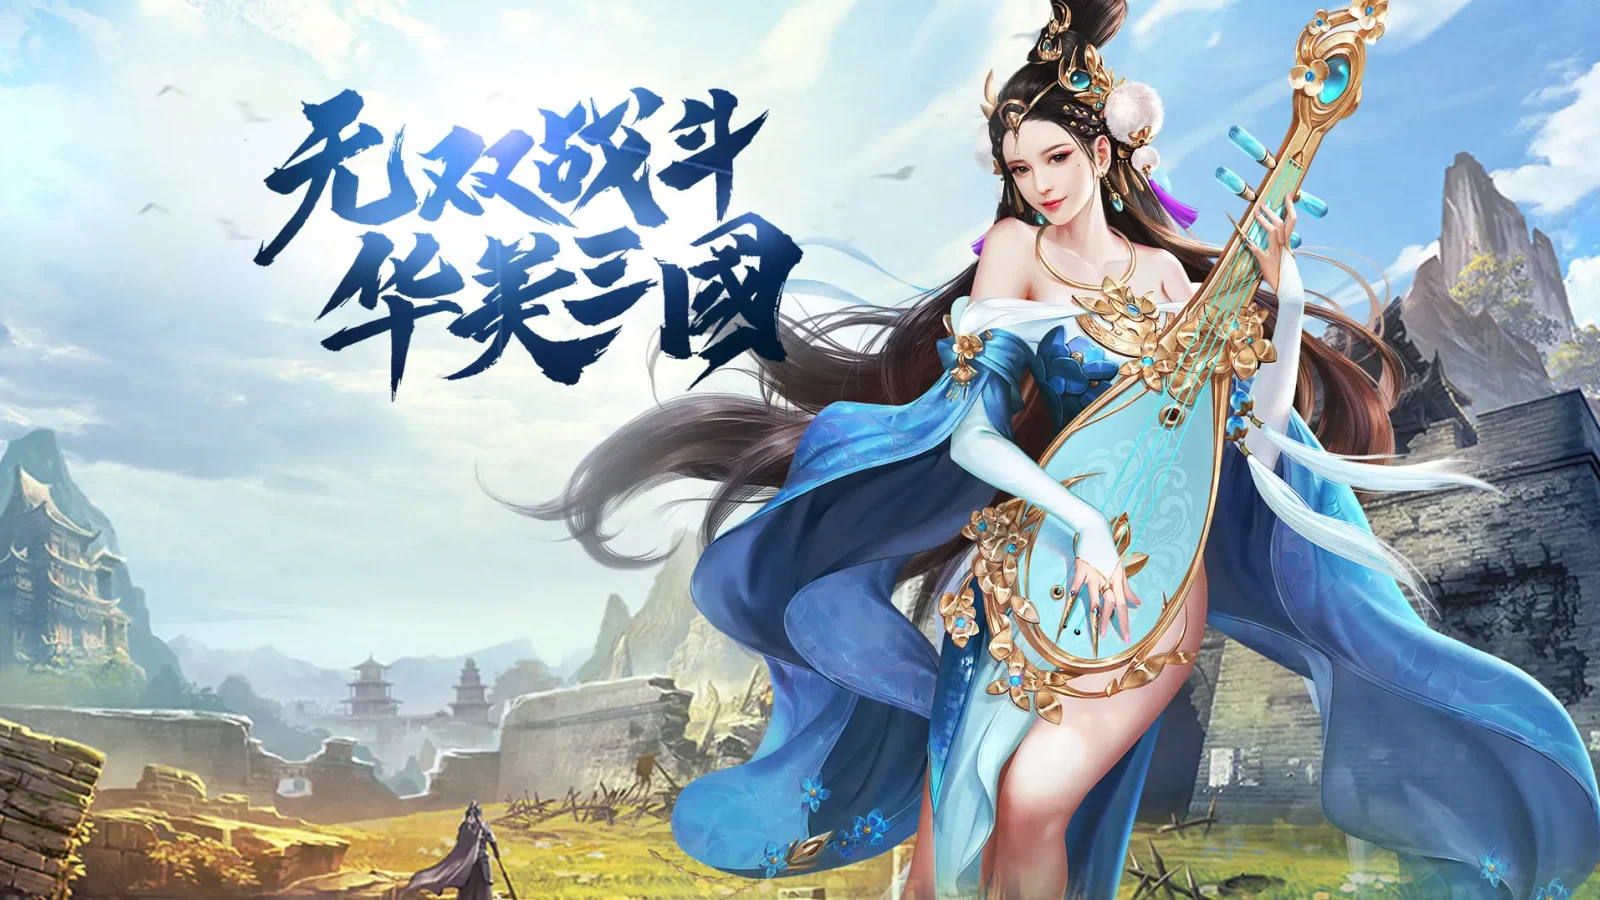
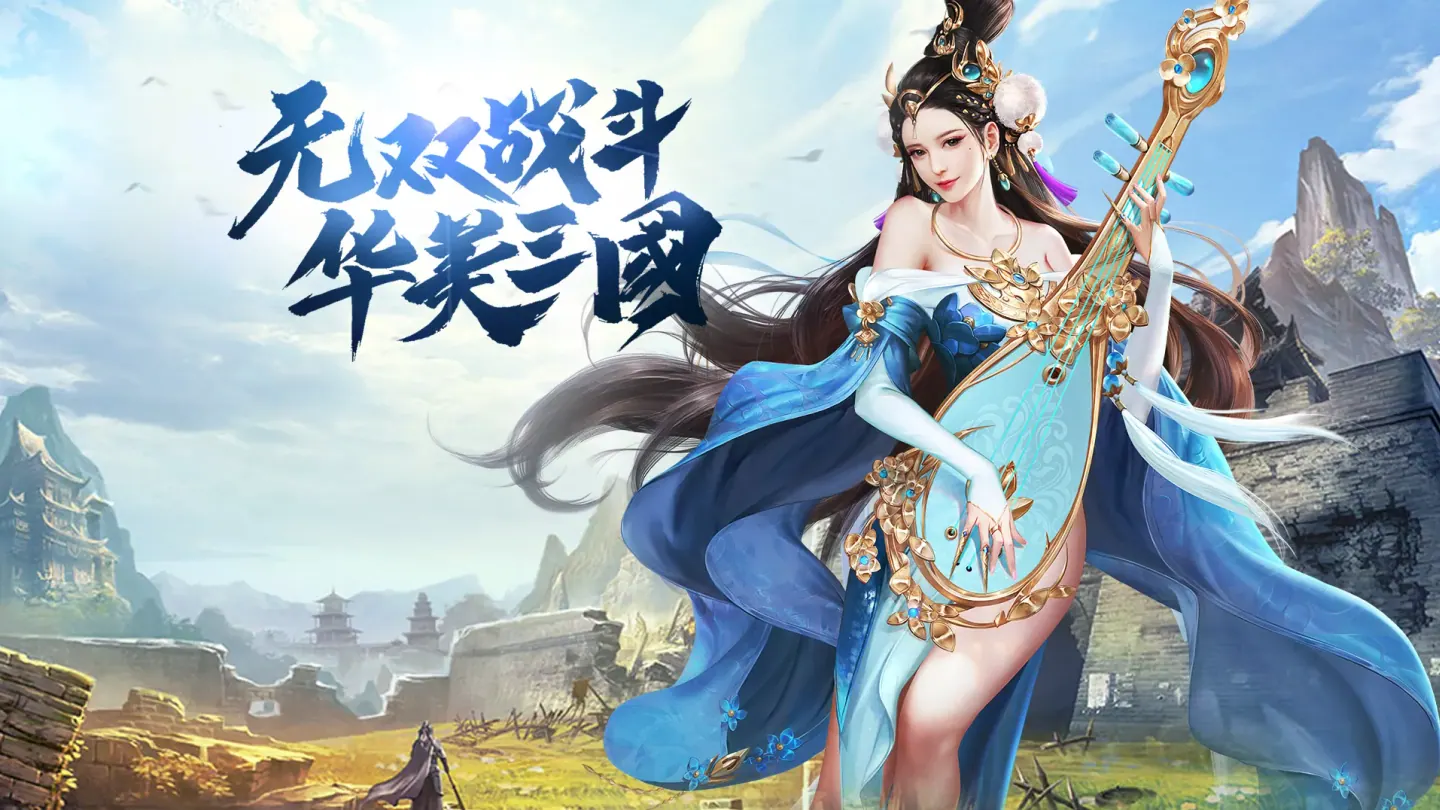
优化全站反应速度：站内链接预取、首屏图 preload/fetchpriority、消除持续重绘、交互节流与预计算

diff --git a/src/styles/global.css b/src/styles/global.css
@@ -81,7 +81,8 @@ main { padding-top: 64px; min-height: 70vh; }
 .site-header {
   position: fixed; top: 0; left: 0; width: 100%; z-index: 1000;
   background: rgba(10, 10, 15, 0.72);
-  backdrop-filter: blur(20px); -webkit-backdrop-filter: blur(20px);
+  /* 固定导航的 backdrop-filter 在滚动时每帧都要重算；12px 观感接近但开销更低 */
+  backdrop-filter: blur(12px); -webkit-backdrop-filter: blur(12px);
   border-bottom: 1px solid var(--line);
 }
 .site-header .container {
@@ -91,13 +92,13 @@ main { padding-top: 64px; min-height: 70vh; }
 .brand { font-size: 20px; font-weight: 800; letter-spacing: 1px; white-space: nowrap; }
 .brand span { background: var(--grad); -webkit-background-clip: text; background-clip: text; -webkit-text-fill-color: transparent; }
 .nav { display: flex; gap: 28px; list-style: none; margin-left: auto; }
-.nav a { color: var(--muted); font-size: 14px; transition: color .3s; }
+.nav a { color: var(--muted); font-size: 14px; transition: color .18s; }
 .nav a:hover { color: #fff; }
 .nav-search {
   display: flex; align-items: center; gap: 8px;
   background: rgba(255, 255, 255, 0.08);
   border: 1px solid var(--line-strong); border-radius: var(--r-pill);
-  padding: 7px 14px; transition: border-color .3s, box-shadow .3s;
+  padding: 7px 14px; transition: border-color .18s, box-shadow .18s;
 }
 .nav-search:focus-within {
   border-color: rgba(254, 202, 87, 0.6);
@@ -120,10 +121,9 @@ main { padding-top: 64px; min-height: 70vh; }
   position: absolute; inset: -40px; z-index: 0;
   background-size: cover; background-position: center 35%;
   filter: blur(14px) brightness(0.42) saturate(1.2);
-  transform: scale(1.2);
-  animation: heroZoom 18s ease-in-out infinite alternate;
+  /* 原先 18s 无限缩放会让整屏模糊大图持续参与合成，滚动时容易掉帧；改为静态 */
+  transform: scale(1.22);
 }
-@keyframes heroZoom { from { transform: scale(1.18); } to { transform: scale(1.28); } }
 .hero-wall::after {
   content: ''; position: absolute; inset: 0; z-index: 1; pointer-events: none;
   background:
@@ -230,7 +230,10 @@ main { padding-top: 64px; min-height: 70vh; }
 .filter-btn {
   padding: 9px 20px; background: transparent; border: 1px solid var(--line-strong);
   border-radius: var(--r-pill); color: var(--muted); font-size: 14px;
-  cursor: pointer; transition: all .3s;
+  cursor: pointer;
+  /* transition: all 会把无关属性也纳入动画，改为只过渡实际变化的属性 */
+  transition: background-color .18s ease, color .18s ease, border-color .18s ease,
+              transform .18s ease, box-shadow .18s ease;
 }
 .filter-btn:hover, .filter-btn.active {
   background: #fff; color: var(--bg); border-color: #fff;
@@ -261,8 +264,8 @@ main { padding-top: 64px; min-height: 70vh; }
   position: relative; aspect-ratio: 3 / 4; border-radius: var(--r-card);
   overflow: hidden; cursor: pointer; border: 1px solid var(--line);
   display: block; background: var(--surface);
-  transition: transform .35s ease, box-shadow .35s ease;
-  animation: fadeIn .45s ease backwards;
+  transition: transform .2s ease, box-shadow .2s ease;
+  animation: fadeIn .3s ease backwards;
 }
 .poster-card:hover, .card:hover {
   transform: translateY(-10px); box-shadow: 0 24px 50px rgba(0, 0, 0, 0.55);
@@ -271,7 +274,7 @@ main { padding-top: 64px; min-height: 70vh; }
 .poster-img, .card-cover img {
   position: absolute; inset: 0; width: 100%; height: 100%;
   object-fit: cover; z-index: 0;
-  transition: transform .5s ease, opacity .5s ease;
+  transition: transform .28s ease, opacity .28s ease;
 }
 /* 整卡点击区：位于图片之上、文字层之下，保证「快速预览」按钮仍可点 */
 .poster-hit { position: absolute; inset: 0; z-index: 1; display: block; }
@@ -346,7 +349,7 @@ main { padding-top: 64px; min-height: 70vh; }
   transition: transform .3s ease, box-shadow .3s ease; display: block;
 }
 .hot-card:hover { transform: translateY(-6px); box-shadow: 0 18px 40px rgba(0, 0, 0, 0.5); }
-.hot-card .poster-img { position: absolute; inset: 0; width: 100%; height: 100%; object-fit: cover; z-index: 1; transition: transform .4s ease; }
+.hot-card .poster-img { position: absolute; inset: 0; width: 100%; height: 100%; object-fit: cover; z-index: 1; transition: transform .28s ease; }
 .hot-card:hover .poster-img { transform: scale(1.07); }
 .hot-card .poster-overlay { z-index: 2; }
 .hot-card .poster-title { font-size: 18px; }
@@ -366,7 +369,7 @@ main { padding-top: 64px; min-height: 70vh; }
 .spotlight-card:hover { transform: translateY(-6px); box-shadow: 0 22px 48px rgba(0, 0, 0, 0.55); }
 .spotlight-bg {
   position: absolute; inset: 0; width: 100%; height: 100%;
-  object-fit: cover; z-index: -2; transition: transform .5s ease;
+  object-fit: cover; z-index: -2; transition: transform .28s ease;
 }
 .spotlight-card:hover .spotlight-bg { transform: scale(1.06); }
 .spotlight-shade {
@@ -391,7 +394,7 @@ main { padding-top: 64px; min-height: 70vh; }
   backdrop-filter: blur(8px); -webkit-backdrop-filter: blur(8px);
   z-index: 2000; display: none; align-items: center; justify-content: center; padding: 20px;
 }
-.modal-mask.open, .modal.open { display: flex; animation: fadeIn .25s ease; }
+.modal-mask.open, .modal.open { display: flex; animation: fadeIn .18s ease; }
 .modal-card {
   background: var(--surface); border: 1px solid var(--line-strong);
   border-radius: 18px; max-width: 520px; width: 100%;
@@ -483,7 +486,7 @@ main { padding-top: 64px; min-height: 70vh; }
   position: relative; width: 100%; max-width: 340px; text-align: center;
   background: #fff; border-radius: 20px; padding: 30px 26px 22px;
   box-shadow: 0 30px 80px rgba(0, 0, 0, 0.6);
-  animation: qr-pop .22s ease;
+  animation: qr-pop .18s ease;
 }
 @keyframes qr-pop { from { transform: scale(.92); opacity: 0; } to { transform: scale(1); opacity: 1; } }
 .qr-modal-box img { display: block; width: 100%; height: auto; }
@@ -702,6 +705,11 @@ button:disabled, [aria-disabled='true'] { opacity: .5; cursor: not-allowed; tran
 .service-list .icon { color: #1f9d55; }
 .service-title { display: flex; align-items: center; gap: 8px; }
 .toast { display: flex; align-items: center; gap: 10px; }
+
+/* ── 性能收尾 ───────────────────────────────
+   筛选改用 hidden 属性显隐卡片，需覆盖组件自身的 display 规则。
+   ─────────────────────────────────────────── */
+.poster-card[hidden], .card[hidden] { display: none !important; }
 .toast .icon { color: var(--accent2); }
 
 /* 纯图标按钮放大到可点击尺寸 */

diff --git a/README.md b/README.md
@@ -15,6 +15,7 @@
 - 结构化数据：`VideoGame` / `Article` / `BreadcrumbList` / `WebSite`
 - SEO：`robots.txt` 端点、sitemap、canonical、OG/Twitter、自定义 404
 - 交互：纯前端胶囊筛选 + 关键词搜索 + 快速预览弹窗 + 客服二维码放大 + 悬浮按钮 / Toast
+- 性能：站内链接预取、首屏 LCP 图 preload / fetchpriority、滚动与筛选节流、静态渲染开销收敛
 - 部署：GitHub Actions 自动构建并发布到 GitHub Pages
 - 收录：可选百度资源平台主动推送（需配置密钥）
 
@@ -53,6 +54,7 @@
 │       ├── guides/index.astro    # 攻略库
 │       ├── guides/[...slug].astro# 攻略详情页
 │       ├── robots.txt.ts / 404.astro
+├── public/favicon.svg       # 站点图标（避免浏览器盲请求 /favicon.ico 产生 404）
 └── public/images/
     ├── covers/    # 8 张 16:9 封面
     ├── posters/   # 8 张 3:4 竖版海报（海报墙卡片主视觉）
@@ -70,6 +72,15 @@
 - 新增图标：在 `Icon.astro` 的 `shapes` 中加一条路径，用 `<Icon name="..." size={16} />` 调用；纯图标按钮必须带 `aria-label`。
 - 按钮基线集中在 `global.css` 末尾的「按钮 / 图标统一规范」区段：`min-height: 44px` 触摸目标、`inline-flex + gap` 图标对齐、`:active` 按压反馈、`:focus-visible` 焦点环与禁用态。
 - 移动端（≤768px）海报卡右上角为圆形「快速预览」图标按钮，不占用卡片底部标题空间；筛选按钮用 `aria-pressed` 同步选中态。
+
+### 性能与响应速度
+
+- **切页**：`astro.config.mjs` 开启 `prefetch: { prefetchAll: true, defaultStrategy: 'viewport' }`，链接进入视口 300ms 后由 Astro 注入 `<link rel="prefetch">` 提前取回目标页 HTML；纯锚点链接用 `data-astro-prefetch="false"` 排除。不依赖 ClientRouter，静态多页站也能接近瞬时切换。
+- **首屏**：`BaseLayout` 的 `preloadImage` 给 Hero 背景（CSS 背景图浏览器发现得晚）加 `<link rel="preload" as="image" fetchpriority="high">`；首张主推大图 `loading="eager" fetchpriority="high"`，其余 lazy；游戏详情 / 攻略详情首图同样标 high。
+- **图片**：`build-images.mjs` 的 `BANNER` 改为 1440×810 / q78（原 1600×900 / q86），两张主推大图由 199KB + 136KB 降到 126KB + 86KB；改参数后需重跑该脚本（依赖 `.assets-src/` 原始素材）再 build。
+- **渲染**：移除 Hero 的 18s 无限缩放动画（整屏模糊大图会持续参与合成）、导航 `backdrop-filter` 20px → 12px、`transition: all` 改为具体属性、卡片淡入 0.45s → 0.3s 且错峰封顶 0.14s。
+- **交互**：滚动监听用 rAF 节流且只在显隐状态翻转时写 DOM；长距离滚动（>1400px）改为瞬时，避免平滑动画 1s+ 的迟钝感；筛选预计算检索文本、改用 `hidden` 属性显隐卡片（配套 CSS `.poster-card[hidden]`）、连续输入合并到一帧；快速预览弹窗大图在 hover / focus 时预热缓存。
+- `public/favicon.svg` 显式声明图标，消除浏览器自动请求 `/favicon.ico` 的 404。
 
 ## 本地开发
 
